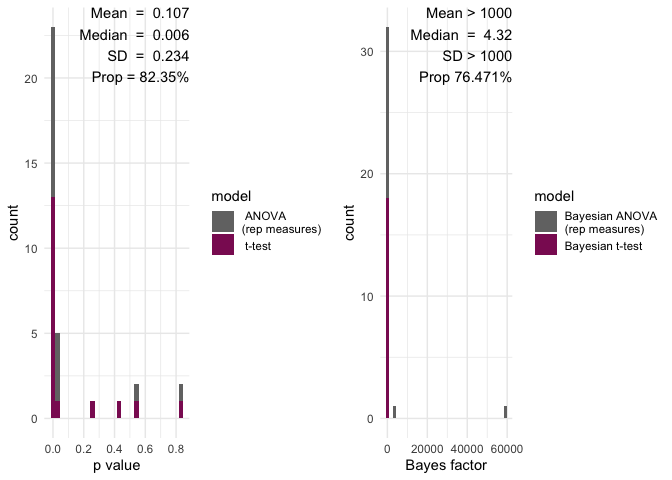
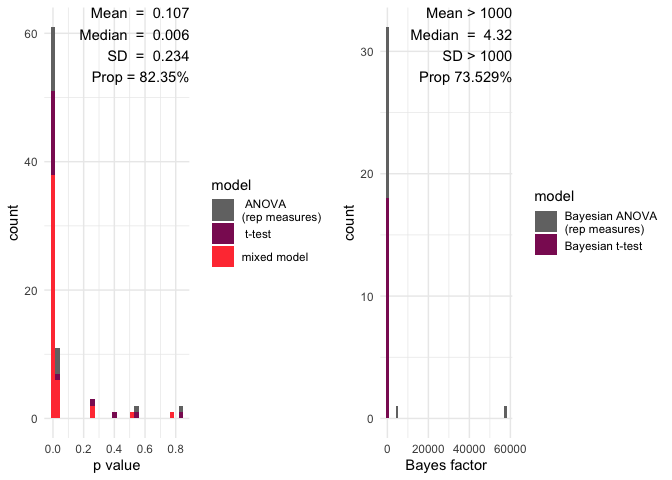
Updates README

diff --git a/README.md b/README.md
@@ -230,26 +230,26 @@ reduction procedures (see below). We can do it simply by:
 
 ``` r
 
-res_multi <- multifear::multiverse_cs(cs1 = cs1, cs2 = cs2, data = example_data, subj = "id", group = NULL, phase = "acquisition", include_bayes = TRUE)
+res_multi <- multifear::multiverse_cs(cs1 = cs1, cs2 = cs2, data = example_data, subj = "id", group = NULL, phase = "acquisition", include_bayes = TRUE, include_mixed = TRUE)
 #> Skipping ANOVA due to the number of trials for the cs1 and/or cs2.
 res_multi
-#> # A tibble: 68 x 18
-#>    x     y     exclusion cut_off model controls method  p.value effect.size
-#>    <chr> <chr> <chr>     <chr>   <chr> <lgl>    <chr>     <dbl>       <dbl>
-#>  1 cs    scr   full_data full d… t-te… NA       great…  0.00244      0.577 
-#>  2 cs    scr   full_data full d… t-te… NA       two.s…  0.00488      0.577 
-#>  3 cs    scr   full_data full d… Baye… NA       Bayes… NA           NA     
-#>  4 cs    scr   full_data full d… Baye… NA       Bayes… NA           NA     
-#>  5 cs:t… scr   full_data full d… rep … NA       rep A…  0.0152       0.0296
-#>  6 cs    scr   full_data full d… rep … NA       rep A…  0.00488      0.147 
-#>  7 cs:t… scr   full_data full d… rep … NA       rep B… NA           NA     
-#>  8 cs    scr   full_data full d… rep … NA       rep B… NA           NA     
-#>  9 cs    scr   ten_per   full d… t-te… NA       great…  0.266        0.100 
-#> 10 cs    scr   ten_per   full d… t-te… NA       two.s…  0.532        0.100 
-#> # … with 58 more rows, and 9 more variables: effect.size.ma <dbl>,
+#> # A tibble: 116 x 19
+#>    x     y     exclusion cut_off model controls method   p.value effect.size
+#>    <chr> <chr> <chr>     <chr>   <chr> <lgl>    <chr>      <dbl>       <dbl>
+#>  1 cs    scr   full_data full d… t-te… NA       great…  2.44e- 3      0.577 
+#>  2 cs    scr   full_data full d… t-te… NA       two.s…  4.88e- 3      0.577 
+#>  3 cs    scr   full_data full d… Baye… NA       Bayes… NA            NA     
+#>  4 cs    scr   full_data full d… Baye… NA       Bayes… NA            NA     
+#>  5 cs:t… scr   full_data full d… rep … NA       rep A…  1.52e- 2      0.0296
+#>  6 cs    scr   full_data full d… rep … NA       rep A…  4.88e- 3      0.147 
+#>  7 cscs2 scr   full_data <NA>    mixe… NA       mixed…  1.80e-13     NA     
+#>  8 cscs… scr   full_data <NA>    mixe… NA       mixed…  5.92e- 7     NA     
+#>  9 cscs2 scr   full_data <NA>    mixe… NA       mixed…  1.82e- 5     NA     
+#> 10 cscs… scr   full_data <NA>    mixe… NA       mixed…  2.16e- 2     NA     
+#> # … with 106 more rows, and 10 more variables: effect.size.ma <dbl>,
 #> #   effect.size.ma.lci <dbl>, effect.size.ma.hci <dbl>, estimate <dbl>,
 #> #   statistic <dbl>, conf.low <dbl>, conf.high <dbl>, framework <chr>,
-#> #   data_used <list>
+#> #   data_used <list>, efffect.size.ma <lgl>
 ```
 
 In terms of calling the function, we see that we need exactly the same
@@ -313,9 +313,9 @@ function and you will get:
 ``` r
 multifear::inference_cs(res_multi, na.rm = TRUE)
 #>   mean_p_value median_p_value sd_p_value prop_p_value mean_bf_value
-#> 1    0.1074323     0.00638261  0.2341194     82.35294      1882.884
+#> 1    0.1074323     0.00638261  0.2341194     82.35294      1838.199
 #>   median_bf_value sd_bf_value prop_bf_value
-#> 1        4.319848    10128.54      76.47059
+#> 1        4.319848    9865.698      73.52941
 ```
 
 And here we have a barplot of the results:
